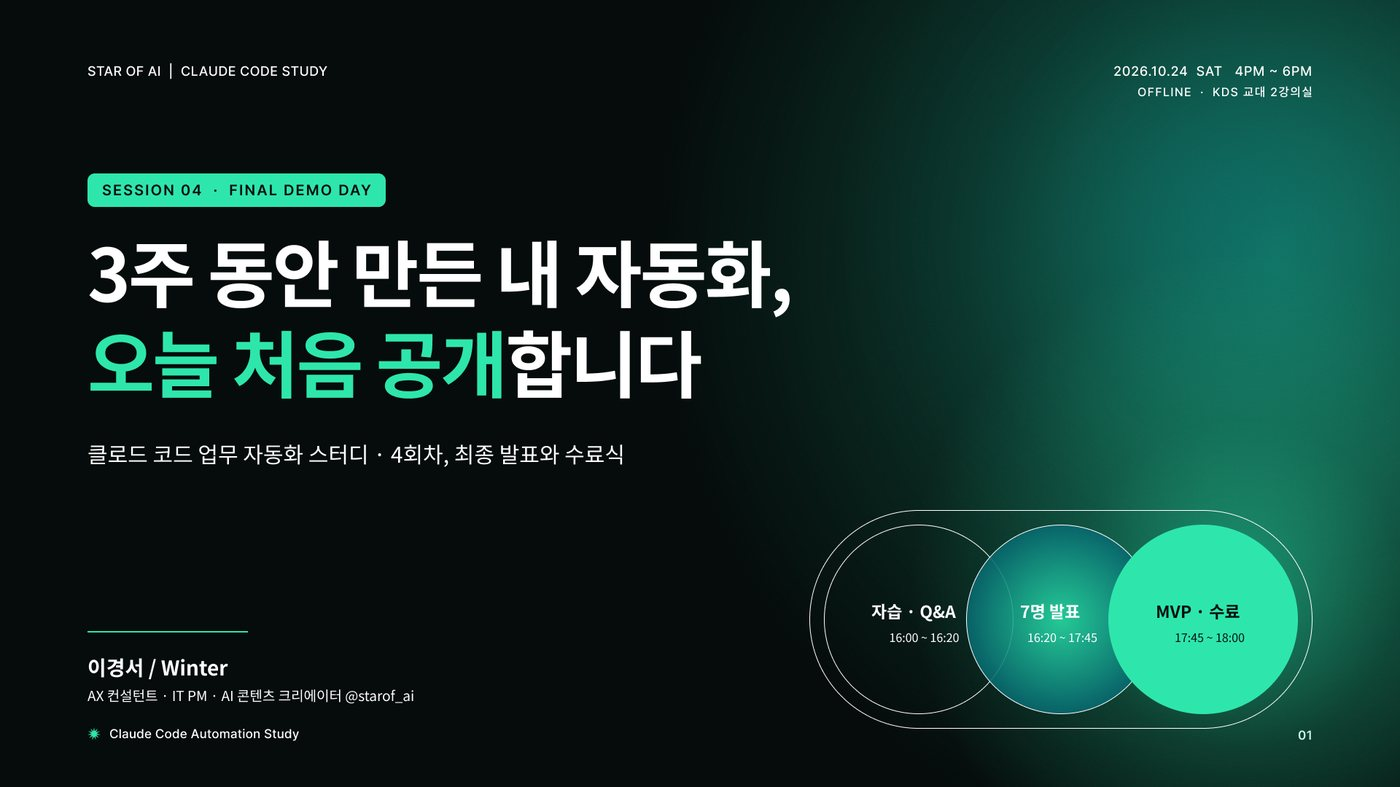
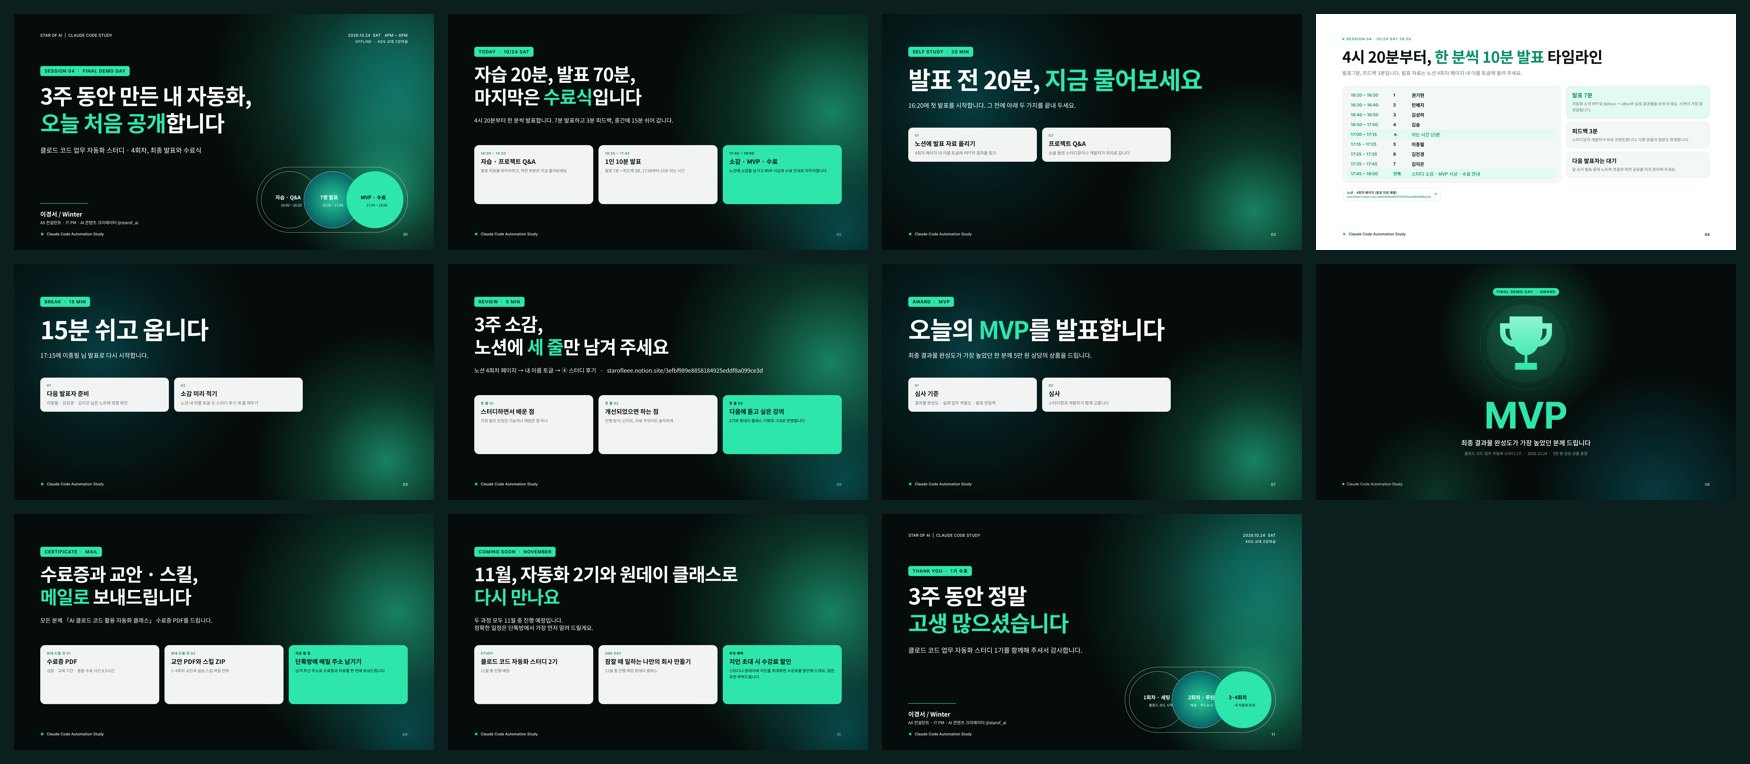
v13: study results as automation examples, letter + message layout, ep4 deck grid, host photo/stats, 2 new cases
- /study: results section reframed as job-tagged automation examples
- student messages aligned; handwritten letter added (signature blurred)
- 4회차 deck full-page grid, materials at natural aspect ratio
- INCLUDED copy '합리적인 150,000원에 설치부터 실습까지' + keyword chips
- host section with lecture photo + career stat cards; home About photo swapped
- consulting/enterprise cases: CRM analysis (5h→10min), Instagram dashboard (3→1 researcher)

Claude-Session: https://claude.ai/code/session_01VqYUrkFTncW5YZPDm17tym

diff --git a/app/study/page.tsx b/app/study/page.tsx
@@ -11,9 +11,8 @@ import FAQ from "@/components/FAQ";
 import StickyBar from "@/components/StickyBar";
 import CountUp from "@/components/CountUp";
 import { SURVEY } from "@/lib/proof";
-import { STUDY, LECTURE_PHOTOS, STUDENT_PROJECTS, STUDY_MATERIALS, FIT_FOR, NOT_FOR, INCLUDED, GALLERY, MESSAGES } from "@/lib/study";
+import { STUDY, LECTURE_PHOTOS, STUDENT_PROJECTS, STUDY_MATERIALS, FIT_FOR, NOT_FOR, INCLUDED, GALLERY, MESSAGES, LETTER } from "@/lib/study";
 import { Voices } from "@/components/Deliverables";
-import ImageBand from "@/components/ImageBand";
 import Hl from "@/components/Hl";
 import { won } from "@/lib/products";
 
@@ -123,7 +122,7 @@ export default function StudyPage() {
 
       {/* 1기 결과물 */}
       <section id="results" className="wrap scroll-mt-20 py-24 md:py-32">
-        <SectionHead eyebrow="3주 뒤 내 모습" title={<>3주 뒤, <Hl>수강생들이 직접 만든</Hl> 자동화</>} desc="코딩 경험 없이 시작한 1기 수강생들이 4회차에 발표한 자동화예요. 발표 자료 기준으로 정리했습니다." />
+        <SectionHead eyebrow="3주 뒤 내 모습" title={<>3주 뒤, <Hl>이런 자동화</Hl>를 직접 만들 수 있어요</>} desc="코딩 경험 없이 시작한 1기 수강생들이 4회차에 실제로 발표한 자동화예요. 비슷한 업무가 있다면 같은 방식으로 만들 수 있어요." />
         <div className="grid gap-4 md:grid-cols-2">
           {STUDENT_PROJECTS.map((pr, i) => (
             <Reveal key={pr.title} delay={i * 80}>
@@ -132,8 +131,12 @@ export default function StudyPage() {
                   <Image src={pr.image} alt={pr.alt} fill sizes="(min-width:768px) 50vw, 100vw" className="object-cover" />
                 </div>
                 <div className="p-7">
-                  <p className="font-serif text-[15px] italic text-olive">0{i + 1} · 4회차 발표 자료</p>
-                  <h3 className="mt-3 text-[18px] font-bold text-brown-dark">{pr.title}</h3>
+                  <div className="flex items-center justify-between gap-2">
+                    <span className="rounded-full bg-brown-dark px-3 py-1 text-[12px] font-bold text-butter">{pr.role}</span>
+                    <span className="text-[12px] font-semibold text-brown/70">0{i + 1} · 1기 발표 자료</span>
+                  </div>
+                  <p className="mt-4 text-[20px] font-extrabold leading-snug text-brown-dark">{pr.can}</p>
+                  <h3 className="mt-2 text-[15px] font-bold text-brown">{pr.title}</h3>
                   <p className="mt-2 text-[14.5px] leading-relaxed text-brown/85">{pr.desc}</p>
                 </div>
               </div>
@@ -159,15 +162,27 @@ export default function StudyPage() {
           <Reveal>
             <p className="mt-14 mb-5 text-[12px] font-bold uppercase tracking-[0.2em] text-brown">수강생이 보낸 메시지</p>
           </Reveal>
-          <div className="grid gap-3 md:grid-cols-3 md:gap-4">
-            {MESSAGES.map((m, i) => (
-              <Reveal key={m.src} delay={i * 90}>
-                <figure className="overflow-hidden rounded-2xl border border-brown/20 bg-[#1a1a1a]">
-                  <Image src={m.src} alt={m.alt} width={m.w} height={m.h} className="w-full object-contain" />
-                  <figcaption className="bg-white px-4 py-2.5 text-[12.5px] font-semibold text-brown-dark">{m.caption}</figcaption>
-                </figure>
-              </Reveal>
-            ))}
+          <div className="grid gap-3 md:grid-cols-[1fr_1.6fr] md:gap-4">
+            <Reveal>
+              <figure className="h-full overflow-hidden rounded-2xl border border-brown/20 bg-white">
+                <div className="relative aspect-[4/5] md:aspect-auto md:h-[calc(100%-42px)]">
+                  <Image src={LETTER.src} alt={LETTER.alt} fill sizes="(min-width:768px) 33vw, 100vw" className="object-cover" />
+                </div>
+                <figcaption className="px-4 py-2.5 text-[12.5px] font-semibold text-brown-dark">{LETTER.caption}</figcaption>
+              </figure>
+            </Reveal>
+            <div className="grid gap-3 md:gap-4">
+              {MESSAGES.map((m, i) => (
+                <Reveal key={m.src} delay={i * 90}>
+                  <figure className="grid overflow-hidden rounded-2xl border border-brown/20 bg-[#1a1a1a] md:grid-cols-[1fr_150px]">
+                    <div className="relative aspect-[16/5]">
+                      <Image src={m.src} alt={m.alt} fill sizes="(min-width:768px) 50vw, 100vw" className="object-contain p-3" />
+                    </div>
+                    <figcaption className="flex items-center bg-white px-4 py-2.5 text-[12.5px] font-semibold text-brown-dark">{m.caption}</figcaption>
+                  </figure>
+                </Reveal>
+              ))}
+            </div>
           </div>
         </div>
       </section>
@@ -241,22 +256,34 @@ export default function StudyPage() {
 
       {/* 교안 · 실습 결과물 */}
       <section className="wrap pt-24 md:pt-32">
-        <ImageBand
-          eyebrow="교안 · 실습 결과물"
-          images={STUDY_MATERIALS}
-          note="실제 수업에서 쓰는 교안과 수강생이 실습 시간에 만든 결과물이에요. 교안은 매 기수 최신 버전으로 업데이트됩니다."
-        />
+        <Reveal>
+          <p className="mb-5 text-[12px] font-bold uppercase tracking-[0.2em] text-brown">교안 · 실습 결과물</p>
+        </Reveal>
+        <div className="grid grid-cols-2 items-start gap-3 md:grid-cols-4 md:gap-4">
+          {STUDY_MATERIALS.map((im, i) => (
+            <Reveal key={im.src} delay={i * 90}>
+              <figure className="overflow-hidden rounded-2xl border border-brown/20 bg-white">
+                <Image src={im.src} alt={im.alt} width={im.w} height={im.h} className="h-auto w-full" />
+                <figcaption className="border-t border-brown/10 px-3 py-2.5 text-[12.5px] font-semibold text-brown-dark">{im.caption}</figcaption>
+              </figure>
+            </Reveal>
+          ))}
+        </div>
+        <p className="mt-4 text-[12.5px] text-brown/75">실제 수업에서 쓰는 교안과 수강생이 실습 시간에 만든 결과물이에요. 교안은 매 기수 최신 버전으로 업데이트됩니다.</p>
       </section>
 
       {/* INCLUDED */}
       <section id="included" className="wrap scroll-mt-20 py-24 md:py-32">
-        <SectionHead eyebrow="What's included" title={<>참가비 {won(STUDY.price)}에<br /><Hl>포함되는 것</Hl></>} desc="강의만 듣고 끝나지 않도록, 설치부터 수료까지 같이 가요." />
+        <SectionHead eyebrow="What's included" title={<>합리적인 {won(STUDY.price)}에<br /><Hl>클로드 코드 설치부터 자동화 실습까지</Hl></>} desc="강의만 듣고 끝나지 않도록, 설치 · 셋팅 · 실습 · 1:1 피드백 · 수료까지 전부 포함이에요." />
         <div className="grid gap-3 md:grid-cols-3 md:gap-4">
           {INCLUDED.map((x, i) => (
             <Reveal key={x.t} delay={i * 60}>
               <div className={`h-full rounded-2xl border p-6 ${i === 5 ? "border-brown-dark bg-brown-dark" : "border-brown/20 bg-white"}`}>
-                <p className={`font-serif text-[22px] font-bold ${i === 5 ? "text-butter" : "text-brown"}`}>0{i + 1}</p>
-                <h3 className={`mt-3 text-[17px] font-extrabold ${i === 5 ? "text-white" : "text-brown-dark"}`}>{x.t}</h3>
+                <div className="flex items-center justify-between">
+                  <span className={`rounded-full px-3 py-1 text-[12px] font-bold ${i === 5 ? "bg-butter text-brown-dark" : "bg-butter-pale text-brown-dark"}`}>{x.k}</span>
+                  <span className={`font-serif text-[20px] font-bold ${i === 5 ? "text-butter" : "text-brown/70"}`}>0{i + 1}</span>
+                </div>
+                <h3 className={`mt-4 text-[17px] font-extrabold leading-snug ${i === 5 ? "text-white" : "text-brown-dark"}`}>{x.t}</h3>
                 <p className={`mt-2 text-[14.5px] leading-relaxed ${i === 5 ? "text-butter-pale/85" : "text-brown/85"}`}>{x.d}</p>
               </div>
             </Reveal>
@@ -265,24 +292,41 @@ export default function StudyPage() {
       </section>
 
       {/* HOST */}
-      <section id="host" className="wrap scroll-mt-20 py-24 md:py-32">
-        <div className="grid gap-12 md:grid-cols-[1fr_1fr] md:gap-20">
+      <section id="host" className="scroll-mt-20 bg-paper py-24 md:py-32">
+        <div className="wrap grid gap-12 md:grid-cols-[0.8fr_1.2fr] md:gap-16">
           <Reveal>
-            <p className="eyebrow">Host</p>
-            <h2 className="h-display mt-4 text-[28px] md:text-[38px]">현업에서 매일 자동화를 만드는 사람이 가르쳐요</h2>
-            <p className="mt-6 text-[16px] leading-[1.8] text-brown/90">
-              스터디장은 현재 기업에서 <b className="font-semibold text-brown-dark">AX 실무와 AI 컨설팅</b>을 진행하고 있으며, 업무 관리 자동화, 업계 리서치 자동화, 바이브 코딩 대시보드 개발, 마케팅 릴스 제작 자동화 등{" "}
-              <b className="font-semibold text-brown-dark">실제 기업 전사 자동화 경험</b>이 있습니다.
-            </p>
+            <div className="relative overflow-hidden rounded-2xl border border-brown/20 shadow-[0_30px_60px_-40px_rgba(46,31,8,.6)]">
+              <Image src="/images/lectures/winter-lecture.jpg" alt="강의 중인 스터디장 Winter" width={1400} height={1750} className="h-auto w-full" />
+              <span className="absolute left-4 top-4 rounded-full bg-brown-dark px-3 py-1 text-[12px] font-bold text-butter">강의 현장</span>
+            </div>
           </Reveal>
-          <Reveal delay={120}>
-            <ul className="divide-y divide-brown/10 border-y border-brown/10">
-              {STUDY.hostCareer.map((c) => (
-                <li key={c} className="py-3.5 text-[15px] text-brown/85">{c}</li>
+          <div className="min-w-0">
+            <Reveal>
+              <p className="eyebrow">Host</p>
+              <h2 className="h-display mt-4 text-[28px] md:text-[38px]">
+                기업 AI 강의 <Hl>10건+</Hl>, 현업 AX 컨설턴트가
+                <br />
+                매일 만드는 자동화를 그대로 가르쳐요
+              </h2>
+              <p className="mt-6 text-[16px] leading-[1.8] text-brown/90">
+                스터디장 <b className="font-bold text-brown-dark">이경서(Winter)</b>는 지금도 기업 안에서 <b className="font-bold text-brown-dark">사내 AI 에이전트, 입찰 자동화, 영업 보고서 자동화</b>를 직접 만들고 있어요. 책으로 배운 게 아니라 <b className="font-bold text-brown-dark">이번 주에도 돌아가는 자동화</b>를 수업에 가져옵니다.
+              </p>
+            </Reveal>
+            <div className="mt-8 grid gap-3 sm:grid-cols-2">
+              {STUDY.hostStats.map((x, i) => (
+                <Reveal key={x.l} delay={i * 60}>
+                  <div className={`h-full rounded-2xl border p-5 ${i === 0 ? "border-brown-dark bg-brown-dark" : "border-brown/20 bg-white"}`}>
+                    <p className={`font-serif text-[34px] font-bold leading-none ${i === 0 ? "text-butter" : "text-brown-dark"}`}>{x.n}</p>
+                    <p className={`mt-2 text-[15px] font-extrabold ${i === 0 ? "text-white" : "text-brown-dark"}`}>{x.l}</p>
+                    <p className={`mt-1 text-[13px] ${i === 0 ? "text-butter-pale/80" : "text-brown/75"}`}>{x.d}</p>
+                  </div>
+                </Reveal>
               ))}
-            </ul>
-            <p className="mt-6 text-[15px] text-brown/85">함께 일잘러가 될 수 있는 자동화 스터디하면서 AI 노마드가 되어봐요.</p>
-          </Reveal>
+            </div>
+            <Reveal>
+              <p className="mt-8 rounded-2xl border border-butter-deep bg-butter px-6 py-4 text-[16px] font-bold text-brown-dark">함께 일잘러가 되는 3주. 자동화 스터디로 AI 노마드가 되어봐요.</p>
+            </Reveal>
+          </div>
         </div>
       </section>
 

diff --git a/lib/study.ts b/lib/study.ts
@@ -49,7 +49,7 @@ export const STUDY = {
       mode: "오프라인",
       title: "최종 자동화 발표 & 네트워킹",
       image: "/images/study/ep4-deck.jpg",
-      imageAlt: "4회차 교안 — 최종 발표와 운영 팁",
+      imageAlt: "4회차 교안 전체 페이지 — 최종 발표와 운영 팁",
       outcome: "내 업무 자동화가 실제로 돌아가는 걸 시연하고, 수료증과 3만원 환급을 받아요.",
       items: ["각 팀원별 완성한 자동화 라이브 시연", "운영 · 유지보수 · 확장 팁", "네트워킹 회식 (이후 자유)"],
     },
@@ -68,14 +68,21 @@ export const STUDY = {
     "IT 경력 4년차",
     "성균관대학교 디자인학과 학사 졸업 & PMBA 석사 재학 중",
   ],
+  hostStats: [
+    { n: "10건+", l: "기업 · 교육기관 AI 강의", d: "성균관대 GSB, 이노텍, 태정, 삼영기업 등" },
+    { n: "AX", l: "스타트업 · 중소기업 컨설팅", d: "사내 에이전트, 입찰 자동화, 영업 보고서" },
+    { n: "2년차", l: "IT 기획 에이전시 운영", d: "기획 · 디자인 · 개발을 직접" },
+    { n: "4년차", l: "IT 실무 경력", d: "카카오게임즈 계열 글로벌 서비스 기획" },
+    { n: "SKKU", l: "디자인학과 학사 · PMBA 재학", d: "디자인과 경영을 같이" },
+  ],
 };
 
 // 교안 · 실습 결과물 (AI 강의 자료 폴더). public/images/study/ 에 넣고 여기에 추가하면 커리큘럼 아래 띠에 나와요.
 export const STUDY_MATERIALS = [
-  { src: "/images/study/practice-cardnews.jpg", alt: "실습 결과물 — 클로드 코드로 만든 카드뉴스", caption: "실습 · 카드뉴스 자동 생성" },
-  { src: "/images/study/practice-site.jpg", alt: "실습 결과물 — 클로드 코드로 만든 개인 사이트", caption: "실습 · 나만의 사이트 만들기" },
-  { src: "/images/study/practice-briefing.jpg", alt: "실습 결과물 — 자동 브리핑 결과", caption: "실습 · 매일 아침 자동 브리핑" },
-  { src: "/images/study/certificate.jpg", alt: "스터디 수료증", caption: "4회 완주 시 수료증 발급" },
+  { src: "/images/study/practice-cardnews.jpg", alt: "실습 결과물 — 클로드 코드로 만든 카드뉴스", caption: "실습 · 카드뉴스 자동 생성", w: 1200, h: 900 },
+  { src: "/images/study/practice-site.jpg", alt: "실습 결과물 — 클로드 코드로 만든 개인 사이트", caption: "실습 · 나만의 사이트 만들기", w: 1279, h: 954 },
+  { src: "/images/study/practice-briefing.jpg", alt: "실습 결과물 — 자동 브리핑 결과", caption: "실습 · 매일 아침 자동 브리핑", w: 1000, h: 1100 },
+  { src: "/images/study/certificate.jpg", alt: "스터디 수료증", caption: "4회 완주 시 수료증 발급", w: 744, h: 1053 },
 ];
 
 // 강의 현장 사진. public/images/lectures/ 에 파일을 넣고 여기에 추가하면 스터디 페이지에 바로 나와요.
@@ -112,10 +119,10 @@ export const STUDY_REVIEWS = [
 // 1기 수강생이 4회차에 발표한 자동화 (발표 자료 기준)
 // image = 4회차 발표 자료 표지 (public/images/students)
 export const STUDENT_PROJECTS = [
-  { title: "건설사 비교견적 자동화", desc: "메일로 온 견적서 수집 → 금액 순위표 → 출력용 PDF까지. 30분~1시간 걸리던 일을 지시 한 번으로.", image: "/images/students/quote.jpg", alt: "발표 자료 표지 — 견적 메일 뒤지던 30분, 이제 5분이면 끝납니다" },
-  { title: "제약 영업 교수 CRM", desc: "담당 교수 66명+의 논문·반응 기록을 시트 하나로. 매주 일요일 방문 우선순위와 영업 스크립트 자동 제안.", image: "/images/students/pip-os.jpg", alt: "발표 자료 표지 — 교수님별 최신 논문 모니터링 & 관심사·제품 연계 DB 자동화" },
-  { title: "인스타그램 카드뉴스 파이프라인", desc: "노션에 주제만 적으면 리서치 → 원고 → 캔바 템플릿 → 승인 후 게시까지 이어지는 흐름.", image: "/images/students/cardnews.jpg", alt: "발표 자료 표지 — 카드뉴스 업로드, 승인 한 번으로 끝내기" },
-  { title: "팀 업무일지 슬랙 취합 자동화", desc: "매일 6시, 8명의 업무일지가 슬랙에 알아서 모여요. 퇴근 전 40분 걸리던 취합이 확인 5분으로.", image: "/images/students/daily-log.jpg", alt: "발표 자료 표지 — 매일 6시, 팀 업무일지가 슬랙에 알아서 모입니다" },
+  { role: "건설 · 구매", can: "메일로 온 견적서를 모아 순위표와 PDF까지", title: "건설사 비교견적 자동화", desc: "메일로 온 견적서 수집 → 금액 순위표 → 출력용 PDF까지. 30분~1시간 걸리던 일을 지시 한 번으로.", image: "/images/students/quote.jpg", alt: "발표 자료 표지 — 견적 메일 뒤지던 30분, 이제 5분이면 끝납니다" },
+  { role: "제약 · 영업", can: "담당 고객의 최신 소식을 모아 방문 우선순위 제안", title: "제약 영업 교수 CRM", desc: "담당 교수 66명+의 논문·반응 기록을 시트 하나로. 매주 일요일 방문 우선순위와 영업 스크립트 자동 제안.", image: "/images/students/pip-os.jpg", alt: "발표 자료 표지 — 교수님별 최신 논문 모니터링 & 관심사·제품 연계 DB 자동화" },
+  { role: "마케팅 · 콘텐츠", can: "주제만 적으면 리서치부터 게시까지", title: "인스타그램 카드뉴스 파이프라인", desc: "노션에 주제만 적으면 리서치 → 원고 → 캔바 템플릿 → 승인 후 게시까지 이어지는 흐름.", image: "/images/students/cardnews.jpg", alt: "발표 자료 표지 — 카드뉴스 업로드, 승인 한 번으로 끝내기" },
+  { role: "팀 운영 · 경영지원", can: "흩어진 팀원 보고를 정해진 시간에 한곳으로", title: "팀 업무일지 슬랙 취합 자동화", desc: "매일 6시, 8명의 업무일지가 슬랙에 알아서 모여요. 퇴근 전 40분 걸리던 취합이 확인 5분으로.", image: "/images/students/daily-log.jpg", alt: "발표 자료 표지 — 매일 6시, 팀 업무일지가 슬랙에 알아서 모입니다" },
 ];
 
 // 이런 분에게 추천 / 맞지 않는 분
@@ -134,12 +141,12 @@ export const NOT_FOR = [
 
 // 참가비에 포함되는 것
 export const INCLUDED = [
-  { t: "설치 · 셋팅 동행", d: "1회차에 터미널 설치부터 권한, 커넥터까지 화면을 같이 보며 끝내요." },
-  { t: "회차별 교안 PDF", d: "4회 교안과 실습 스킬 파일을 매 회차 후 드려요." },
-  { t: "샘플 데이터 · 실습 스킬", d: "2회차에 바로 돌려볼 수 있는 샘플 데이터와 스킬을 제공해요." },
-  { t: "기획안 1:1 피드백", d: "3회차에 내 업무 자동화 기획안을 한 명씩 봐드려요." },
-  { t: "오픈채팅 질문", d: "수업 없는 날에도 막히면 오픈채팅에서 바로 물어보세요." },
-  { t: "수료증 + 3만원 환급", d: "4회 전부 참석하면 수료증과 함께 3만원을 돌려드려요." },
+  { k: "설치 · 셋팅", t: "클로드 코드 설치부터 권한 · 커넥터 셋팅까지 동행", d: "1회차에 터미널 설치, 권한, 노션 · 슬랙 · 구글 커넥터 연결을 화면 보며 같이 끝내요." },
+  { k: "교안 · 스킬 파일", t: "4회 교안 PDF + 실습 스킬 파일", d: "매 회차 교안과 수업에서 쓴 스킬 파일을 그대로 드려요. 집에서 다시 돌려볼 수 있어요." },
+  { k: "실습", t: "샘플 데이터로 자동화 한 개 끝까지 돌려보기", d: "2회차에 리서치 → 정리 → 슬랙 발송까지 실제로 돌아가는 자동화를 내 손으로 완성해요." },
+  { k: "1:1 피드백", t: "내 업무 자동화 기획안 1:1 피드백", d: "3회차에 한 명씩 기획안을 보고, 필요한 데이터 · 권한 · 작업 순서를 같이 정리해요." },
+  { k: "질문", t: "수업 없는 날도 오픈채팅 질문", d: "에러 화면을 올리면 답해드려요. 혼자 막혀서 멈추는 일이 없게." },
+  { k: "수료 · 환급", t: "수료증 + 3만원 환급", d: "4회 전부 참석하면 수료증과 함께 3만원을 돌려드려요. 실제 참가비는 12만원인 셈이에요." },
 ];
 
 // 강의 현장 갤러리 (불규칙 레이아웃). span: 그리드에서 차지하는 칸
@@ -151,6 +158,9 @@ export const GALLERY = [
   { src: "/images/lectures/study1-lead.jpg", alt: "스터디장이 화면을 보며 진행하는 모습", caption: "3회차 · 기획안 피드백", span: "" },
   { src: "/images/lectures/study1-present-b.jpg", alt: "1기 수강생이 자동화를 시연하는 모습", caption: "4회차 · 라이브 시연", span: "" },
 ];
+
+// 수강생이 보낸 손편지 (이름은 가렸어요)
+export const LETTER = { src: "/images/lectures/msg-letter.jpg", alt: "1기 수강생이 손으로 쓴 감사 편지", caption: "1기 수강생이 마지막 날 건넨 손편지" };
 
 // 수강생이 보낸 메시지 (이름은 가렸어요)
 export const MESSAGES = [

diff --git a/lib/proof.ts b/lib/proof.ts
@@ -111,6 +111,30 @@ export const CASES: CaseStudy[] = [
     metric: "자동화",
     metricLabel: "HR 반복 구간",
   },
+  {
+    id: "crm",
+    image: "/images/cases/crm.jpg",
+    org: "마케팅팀 · 컨설팅 고객사",
+    tag: "마케팅 CRM 분석",
+    title: "5시간 걸리던 CRM 분석을 10분으로",
+    problem: "매달 CRM 데이터를 내보내 세그먼트를 나누고 캠페인별 전환을 집계해 리포트로 정리하는 데 담당자 한 명이 5시간을 썼습니다.",
+    solution: "내보내기 → 세그먼트 분류 → 전환 집계 → 인사이트 요약까지 한 번의 지시로 돌아가는 분석 스킬을 만들고, 결과는 노션 리포트와 슬랙 요약으로 받게 했습니다.",
+    result: "5시간 → 10분. 담당자는 자동으로 뽑힌 인사이트를 읽고 캠페인을 정하는 데만 시간을 씁니다.",
+    metric: "5시간 → 10분",
+    metricLabel: "월 CRM 분석",
+  },
+  {
+    id: "insta",
+    image: "/images/cases/insta.jpg",
+    org: "콘텐츠팀 · 컨설팅 고객사",
+    tag: "인스타그램 콘텐츠 분석",
+    title: "콘텐츠 CTA · 클릭률 · 조회수 자동 분석 대시보드",
+    problem: "게시물마다 조회수, 클릭률, CTA 반응을 세 명이 나눠서 손으로 모으고 비교하느라 리서치에만 사람 셋이 붙었습니다.",
+    solution: "매일 아침 인스타그램 데이터를 수집해 콘텐츠별 성과와 CTA 조합을 분석하는 대시보드를 만들고, 주간 인사이트를 노션과 슬랙으로 보내도록 했습니다.",
+    result: "리서치 3인분 → 1인분. 한 명이 대시보드를 확인하고 다음 콘텐츠를 정합니다.",
+    metric: "3인분 → 1인분",
+    metricLabel: "콘텐츠 리서치",
+  },
 ];
 
 export const CONSULTING = [

diff --git a/app/enterprise/page.tsx b/app/enterprise/page.tsx
@@ -129,7 +129,7 @@ export default function EnterprisePage() {
           <SectionHead eyebrow="AX Projects" title={<>기업에서 <Hl>실제로 일어난 변화</Hl></>} desc="사내 AX팀과 컨설팅 고객사에서 직접 만든 자동화예요. 큰 글씨는 어떻게 그 숫자를 만들었는지의 핵심이에요. 교육실시확인서 등 증빙 자료는 요청 시 제공해 드려요." />
           <ProjectGrid companyOnly />
           <div className="mt-16">
-            <p className="mb-6 text-[12px] font-semibold uppercase tracking-[0.2em] text-brown/65">Case study · 네 건을 자세히</p>
+            <p className="mb-6 text-[12px] font-semibold uppercase tracking-[0.2em] text-brown/65">Case study · 여섯 건을 자세히</p>
             <CaseStudies />
           </div>
         </div>

diff --git a/app/consulting/page.tsx b/app/consulting/page.tsx
@@ -127,7 +127,7 @@ export default function ConsultingPage() {
 
       {/* CASES (deep dive) */}
       <section className="wrap py-24 md:py-32">
-        <SectionHead eyebrow="Case study" title={<><Hl>문제 → 해결 → 성과</Hl>, 네 건을 자세히</>} desc="위 프로젝트 중 네 건을 문제·해결·성과로 풀어 봤어요." />
+        <SectionHead eyebrow="Case study" title={<><Hl>문제 → 해결 → 성과</Hl>, 여섯 건을 자세히</>} desc="프로젝트 중 여섯 건을 문제·해결·성과로 풀어 봤어요. 화면은 실제 구조를 바탕으로 재구성했고, 고객사명과 숫자 일부는 가렸어요." />
         <CaseStudies />
       </section>
 
